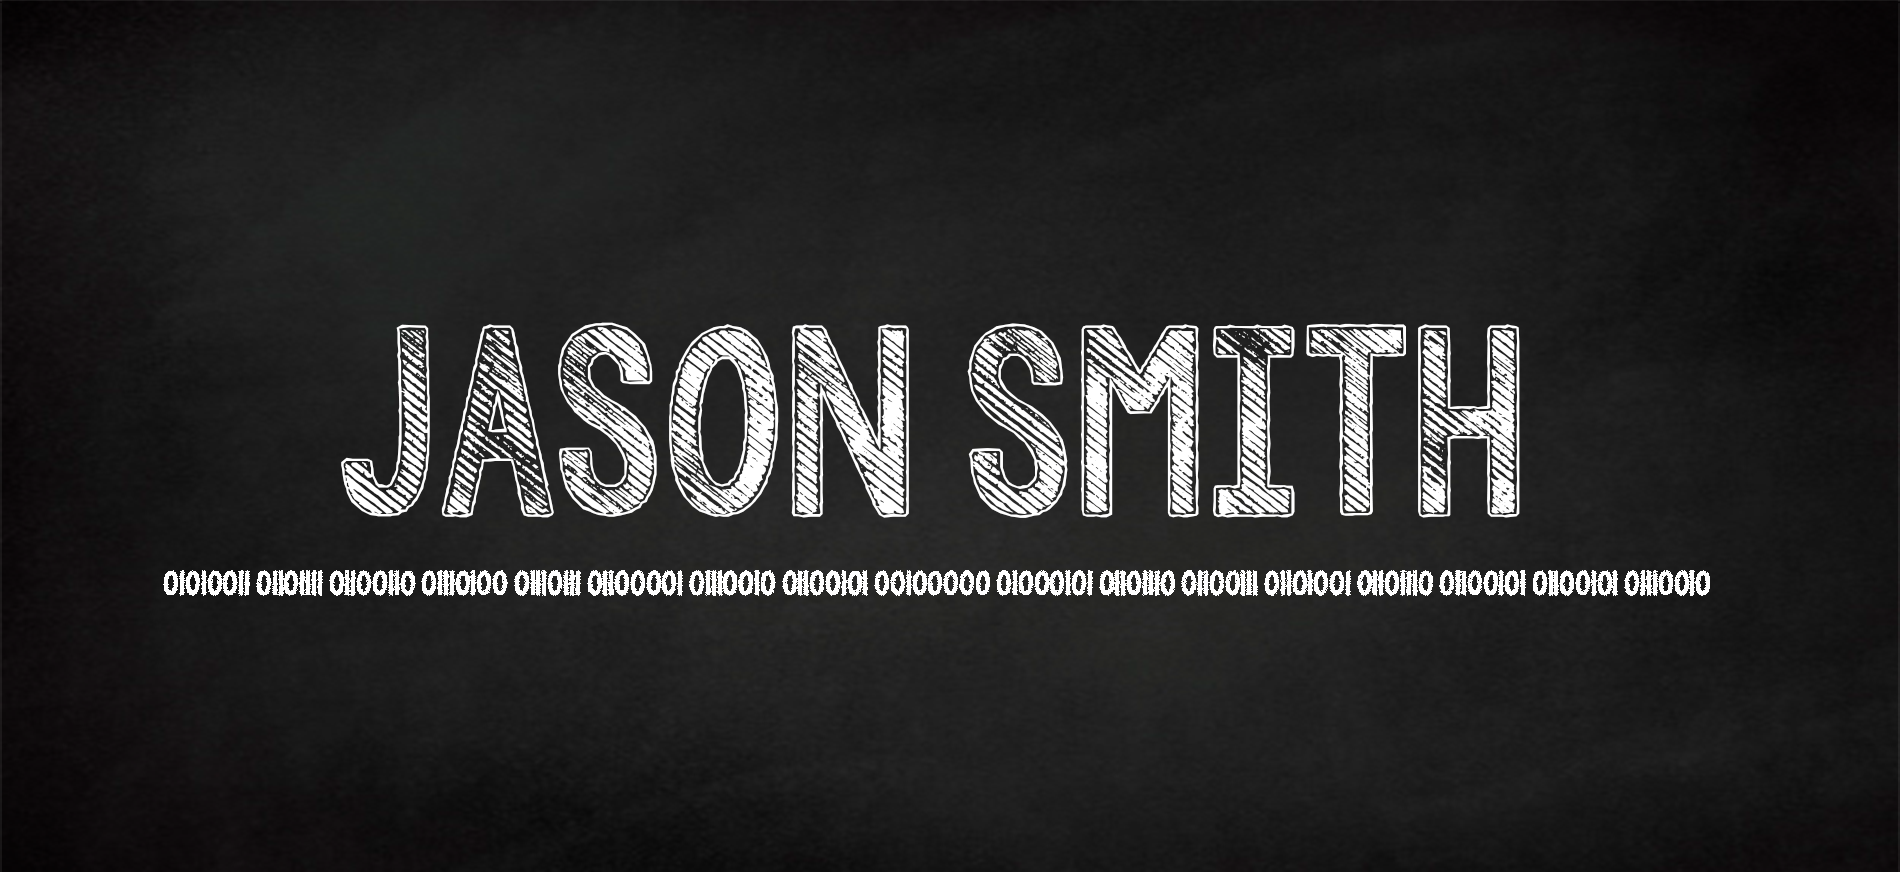
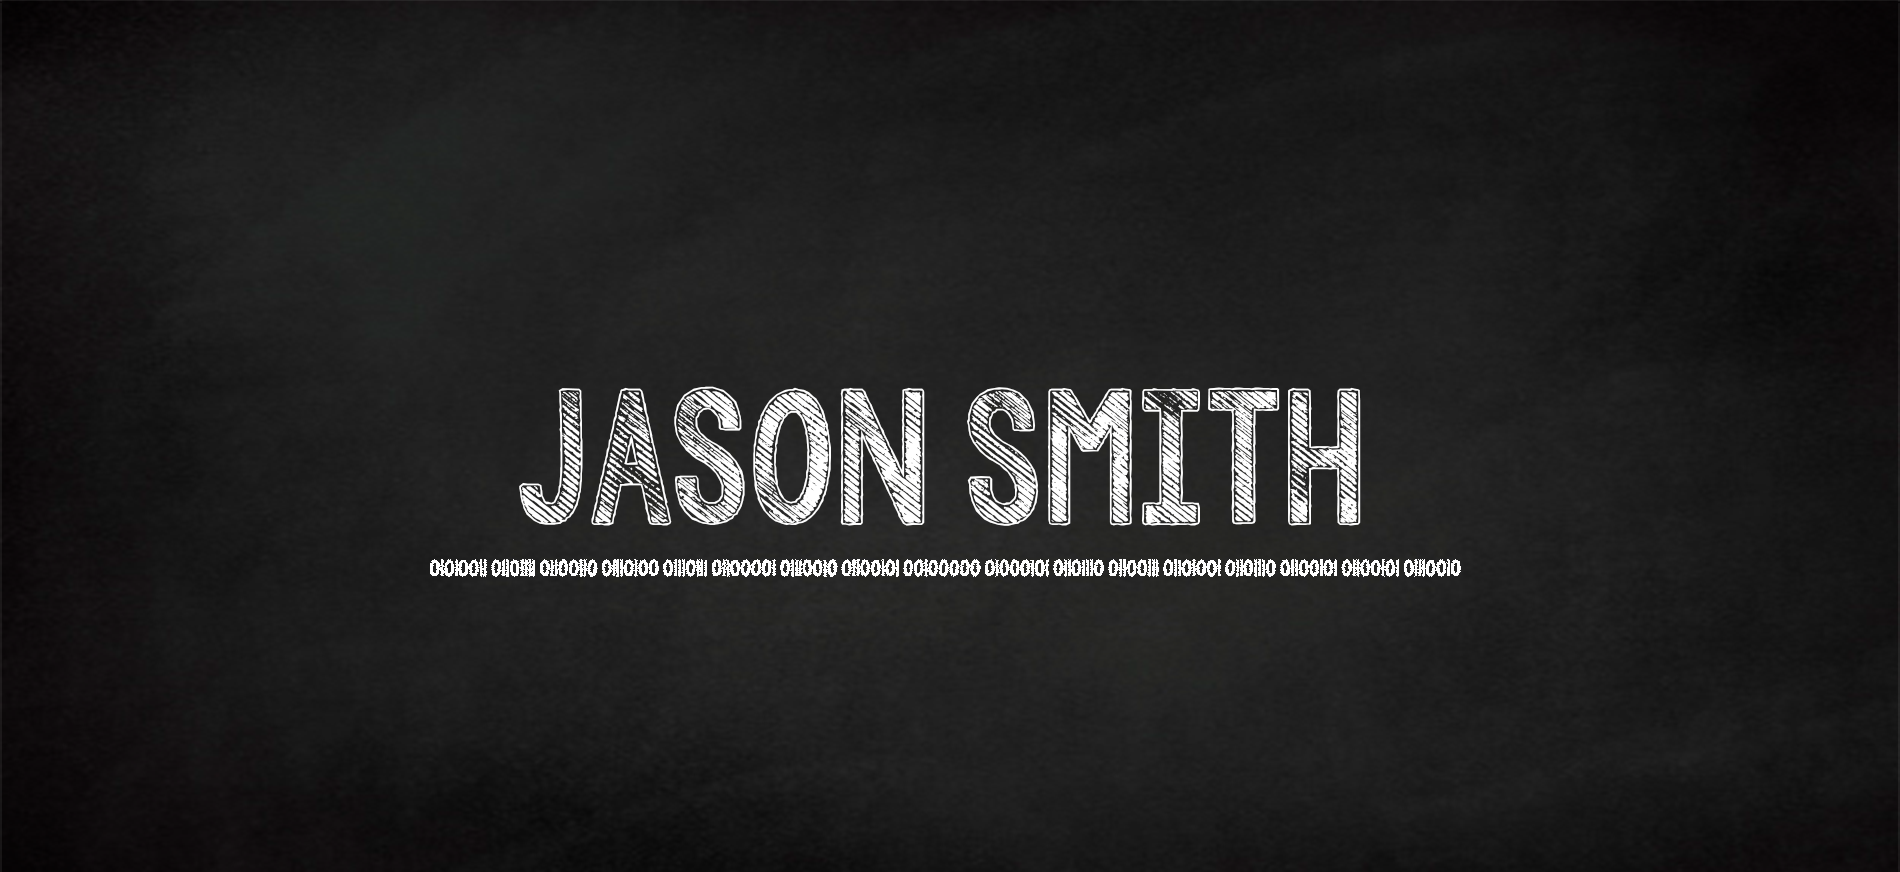
update images

Changed region(s): [[0.0621, 0.3716, 0.9005, 0.6812]]

diff --git a/index.html b/index.html
@@ -69,7 +69,8 @@
 
     <!-- Page Header -->
     <!-- Set your background image for this header on the line below. -->
-    <header class="intro-header" style="background-image: url('img/title.png')">
+    <header class="intro-header" style="background-image: url('img/background.png')">
+      <img src="img/jason.png">
         <div class="container">
             <div class="row">
                 <div class="col-lg-8 col-lg-offset-2 col-md-10 col-md-offset-1">
@@ -174,7 +175,7 @@
                             </a>
                         </li>
                     </ul>
-                    <p class="copyright text-muted">Copyright &copy; Your Website 2016</p>
+                    <p class="copyright text-muted">Copyright &copy; Jason Smith</p>
                 </div>
             </div>
         </div>
